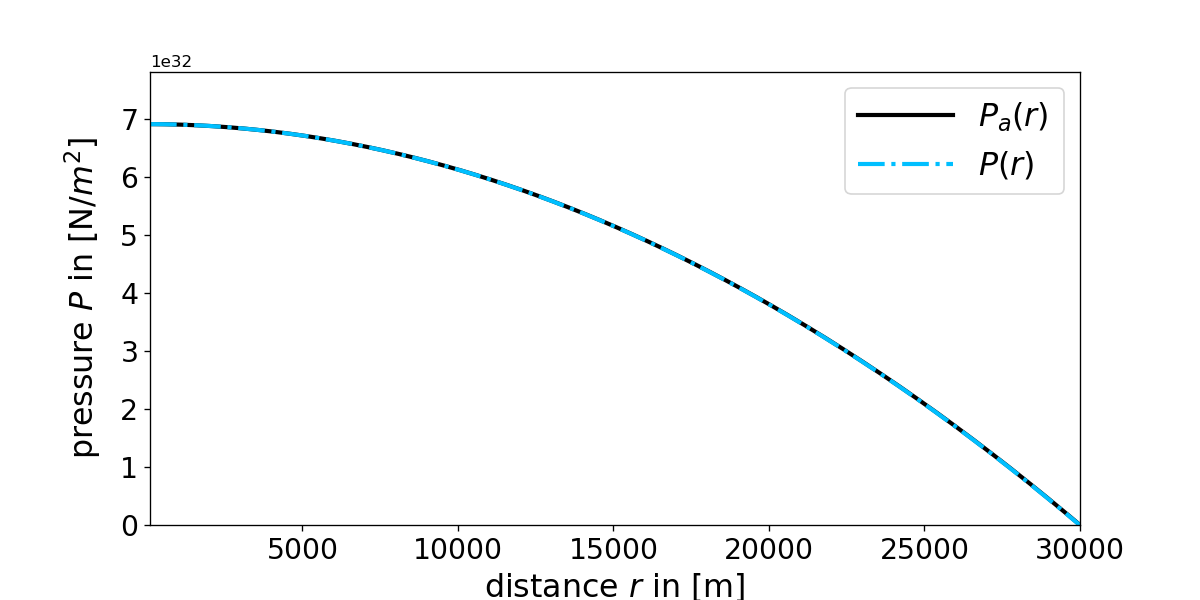
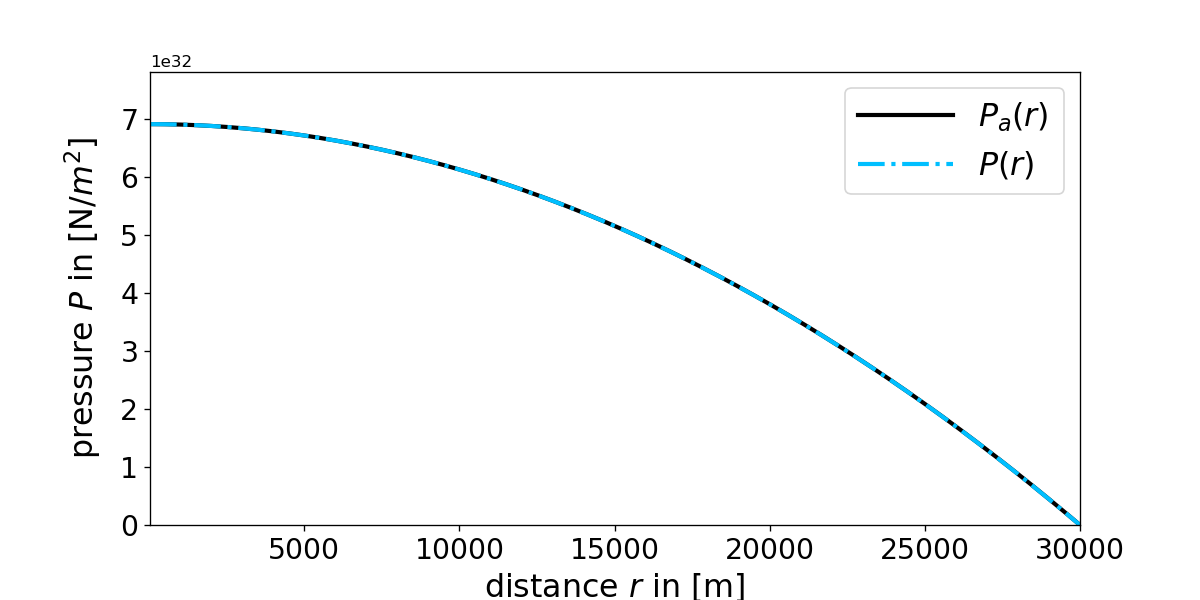
added results for metric coefficients

diff --git a/TOV.py b/TOV.py
@@ -3,7 +3,7 @@ It solves in particular the Tolman Oppenheimer Volkoff equation (TOV) for a sphe
 and compares it with its analytical solution."""
 import numpy as np
 import matplotlib.pyplot as plt
-dr=100 #in m
+dr=25 #in m
 R=30000 #star radius in m
 Rfinal=R
 r0=dr
@@ -30,6 +30,10 @@ def f(r,P,Parr):
     TOV=-G*(Mass(r,rho0,Parr)+4*np.pi*r**3*P/c**2)/(r**2*(1-2*G*Mass(r,rho0,Parr)/(r*c**2)))*(rho(r,rho0,P)+P/c**2)
     return TOV
 P=np.empty(steps+1, dtype='double')
+M=np.empty(steps+1, dtype='double')
+xi=np.empty(steps+1, dtype='double')
+deta=np.empty(steps+1, dtype='double')
+eta=np.empty(steps+1, dtype='double')
 r=np.empty(steps+1, dtype='double')
 Pn=P0
 rn=r0
@@ -37,14 +41,23 @@ rn=r0
 for i in range(0,steps+1):
     r[i]=rn
     P[i]=Pn
+    M[i]=Mass(rn,rho0,P)
+    deta[i]=-2*f(rn,Pn,P)/(P[i]+rho(r[i],rho0,P[i])*c**2)
     k1=dr*f(rn,Pn,P)
     k2=dr*f(rn+0.5*dr,Pn+0.5*k1,P)
     k3=dr*f(rn+0.5*dr,Pn+0.5*k2,P)
     k4=dr*f(rn+dr,Pn+k3,P)
     rn=rn+dr
     Pn=Pn+k2*(2/6)+k1*(1/6)+k3*(2/6)+k4*(1/6)  
+dn=-np.log(1/(1-2*G*M[-1]/(R*c**2)))
+for i in range(steps,-1,-1):
+    dn=dn-dr*deta[i]
+    eta[i]=dn
+xi=np.log(1/(1-2*G*M/(r*c**2)))
 #analytical solution for constant density star
 Pa=rho0*c**2*(np.sqrt(1-r**2*rs/R**3)-np.sqrt(1-rs/R))/(3*np.sqrt(1-rs/R)-np.sqrt(1-r**2*rs/R**3))
+xia=np.log(1/(1-rs*r**2/R**3))
+etaa=np.log(0.25*(3*np.sqrt(1-rs/R)-np.sqrt(1-r**2*rs/R**3))**2)
 ax1 = plt.subplots(1, sharex=True, figsize=(10,5))
 plt.plot(r,Pa,color='black',linestyle='-',linewidth=2.5,label = "$P_a(r)$ ")          
 plt.plot(r,P,color='deepskyblue',linestyle='-.',linewidth=2.5,label="$P(r)$ ")
@@ -56,4 +69,24 @@ plt.xticks(fontsize= 17)
 plt.yticks(fontsize= 17)
 plt.legend(loc=1,fontsize=19,handlelength=3) 
 plt.savefig("TOV.png",dpi=120)
+plt.show()
+ax1 = plt.subplots(1, sharex=True, figsize=(10,5))
+plt.plot(r,xia,color='black',linestyle='-',linewidth=2.5,label = "$ξ_a(r)$ ")         
+plt.plot(r,xi,color='deepskyblue',linestyle='-.',linewidth=2.5,label="$ξ(r)$ ")
+plt.xlabel("distance $r$ in [m]",fontsize=19) 
+plt.xlim([r0,Rfinal]) 
+plt.xticks(fontsize= 17)
+plt.yticks(fontsize= 17)
+plt.legend(loc=2,fontsize=19,handlelength=3) 
+plt.savefig("xi.png",dpi=120)
+plt.show()
+ax1 = plt.subplots(1, sharex=True, figsize=(10,5))
+plt.plot(r,etaa,color='black',linestyle='-',linewidth=2.5,label = "$η_a(r)$ ")         
+plt.plot(r,eta,color='deepskyblue',linestyle='-.',linewidth=2.5,label="$η(r)$ ")
+plt.xlabel("distance $r$ in [m]",fontsize=19) 
+plt.xlim([r0,Rfinal]) 
+plt.xticks(fontsize= 17)
+plt.yticks(fontsize= 17)
+plt.legend(loc=2,fontsize=19,handlelength=3) 
+plt.savefig("eta.png",dpi=120)
 plt.show()
